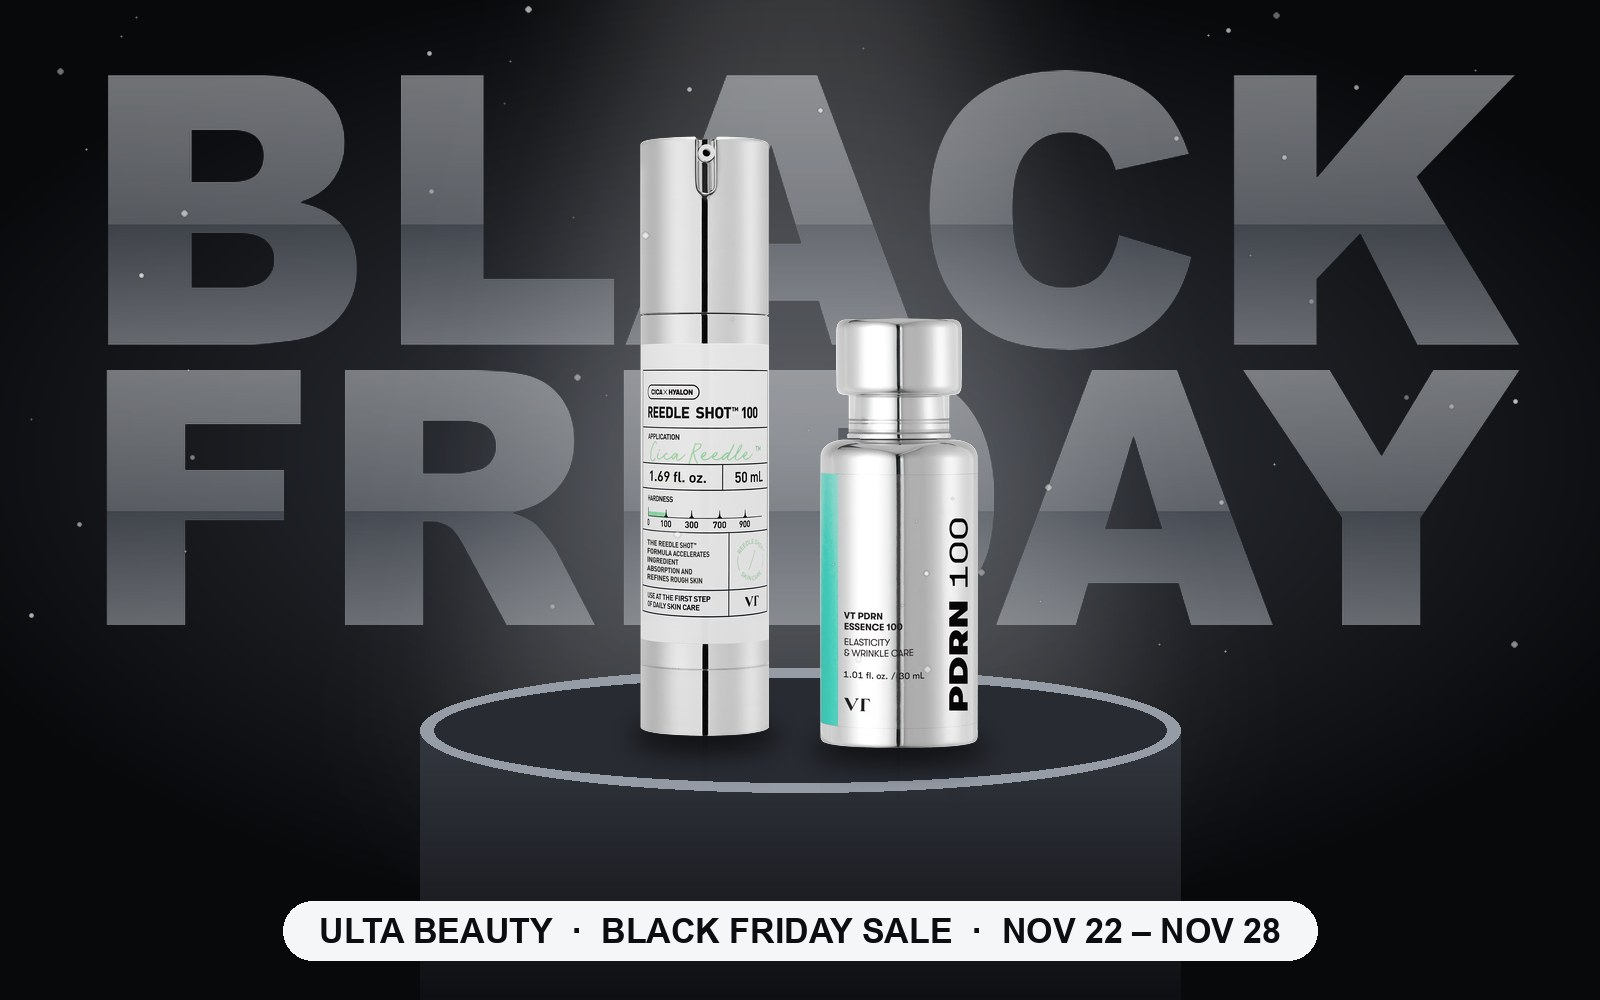
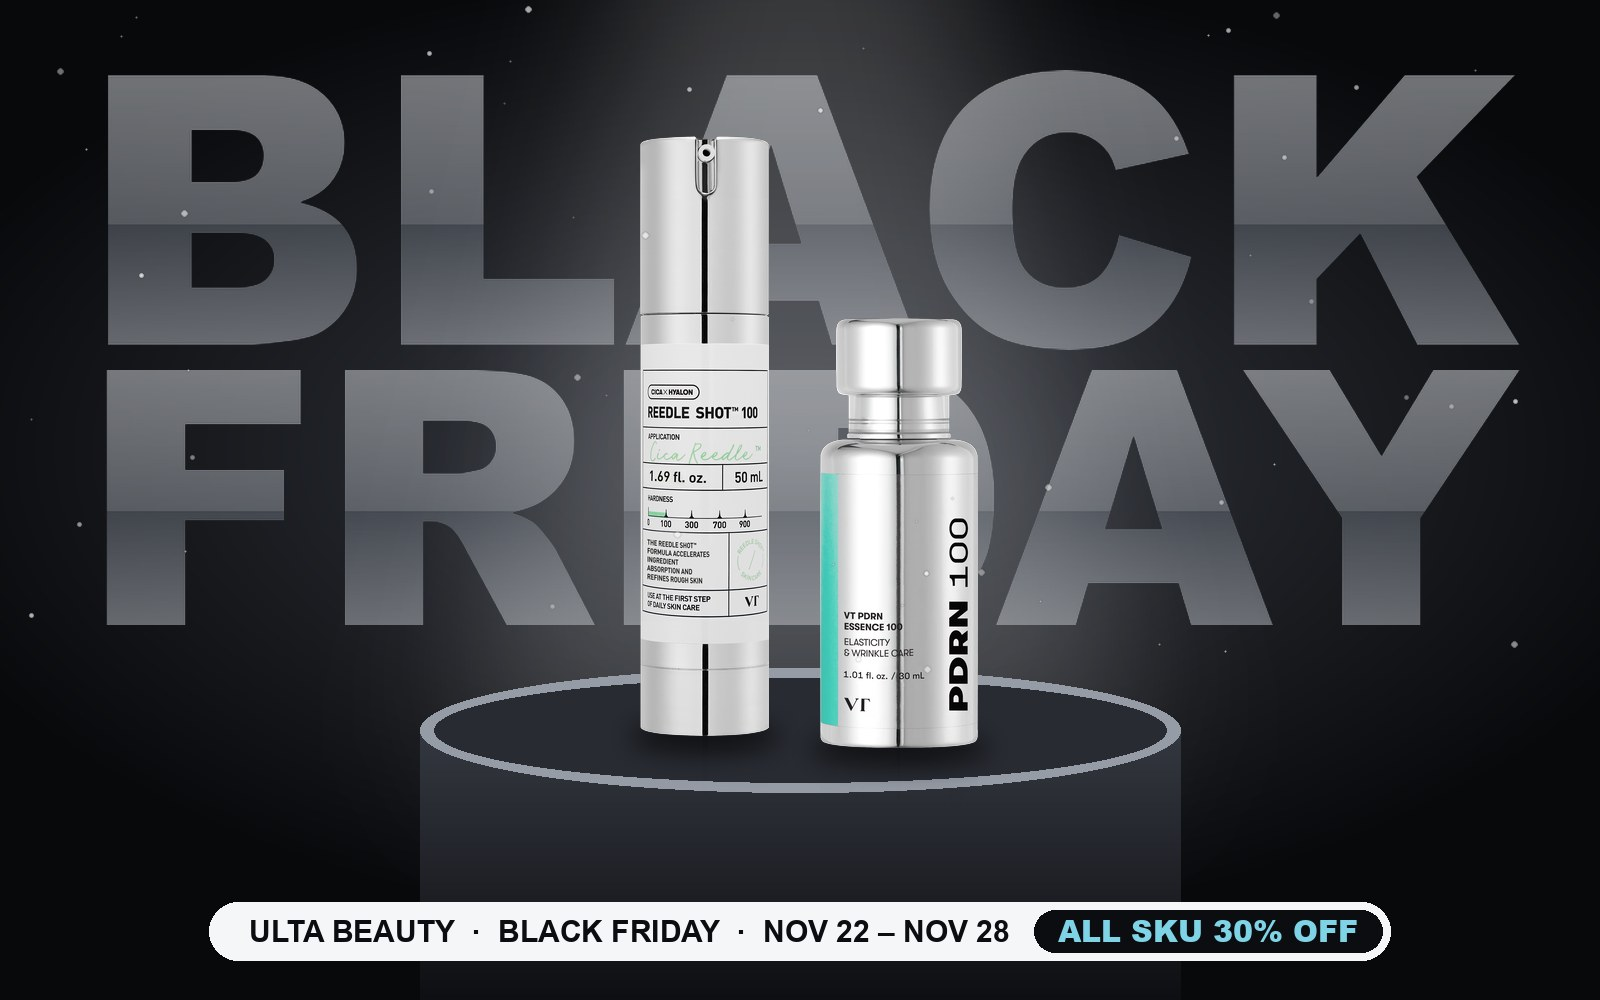
Add ALL SKU 30% OFF to subline and hero image

Changed region(s): [[0.125, 0.899, 0.875, 0.961]]

diff --git a/index.html b/index.html
@@ -475,8 +475,8 @@ body{background:var(--bg);color:var(--ink)}</style></head><body>
   <div class="hero-grid bf">
    <div class="rv"><span class="kicker">2026 ULTA BLACK FRIDAY CREATOR GUIDE · US</span>
     <h1 class="h1">BLACK FRIDAY <span class="g">GLOW-UP</span></h1><div class="silver-line" aria-hidden="true"></div>
-    <p class="sub"><b>Reedle Shot 100 × PDRN Essence 100</b><br>Ulta Beauty Black Friday · Nov 22 – Nov 28. Stock up on the duo.</p></div>
-   <div class="hero-media rv"><div class="hero-shot"><img src="img/hero.jpg" alt="Reedle Shot 100 and PDRN Essence 100 in front of a Black Friday backdrop, Ulta Beauty sale Nov 22 to Nov 28"></div></div>
+    <p class="sub"><b>Reedle Shot 100 × PDRN Essence 100</b><br>Ulta Beauty Black Friday · Nov 22 – Nov 28 · <b>ALL SKU 30% OFF</b></p></div>
+   <div class="hero-media rv"><div class="hero-shot"><img src="img/hero.jpg" alt="Reedle Shot 100 and PDRN Essence 100 in front of a Black Friday backdrop, Ulta Beauty sale Nov 22 to Nov 28, all SKU 30% off"></div></div>
   </div></div></header>
 
  <section id="product" style="padding-top:8px"><div class="wrap">
